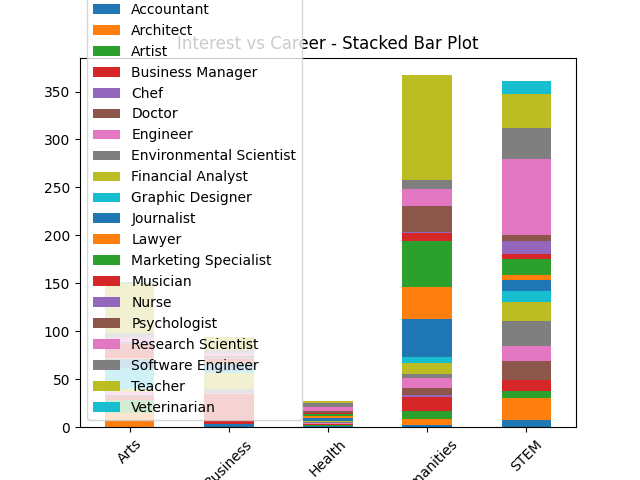
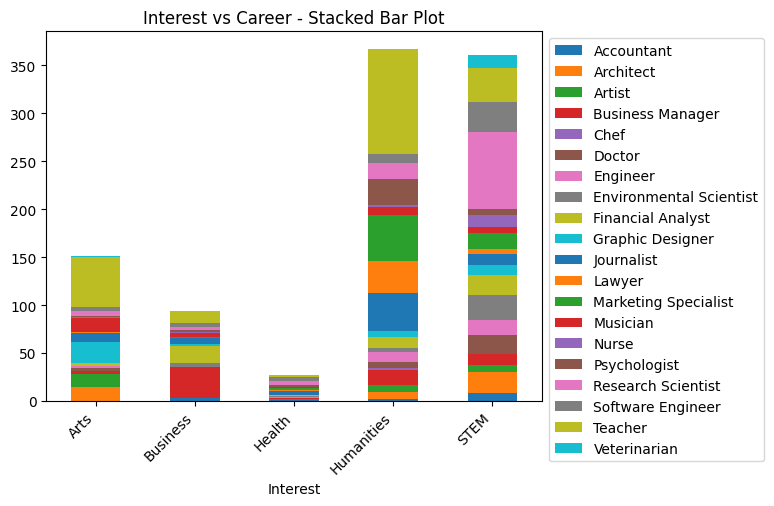
add swagger documentation

diff --git a/app.py b/app.py
@@ -21,7 +21,26 @@ from dotenv import load_dotenv
 from gridfs import GridFS
 from urllib.parse import quote_plus
 
-app = FastAPI()
+app = FastAPI(
+    title="Career Recommendation API",
+    description="API for predicting career recommendations based on student input.",
+    version="1.0.0",
+    docs_url="/",
+    openapi_tags=[
+       {
+            "name": "predictions",
+            "description": "Career prediction operations"
+        },
+        {
+            "name": "data",
+            "description": "Data upload and model operations"
+        },
+        {
+            "name": "visualizations",
+            "description": "Data visualization endpoints"
+        }
+    ]
+)
 
 app.mount('/static', StaticFiles(directory='./data/static'), name='static')
 
@@ -73,16 +92,44 @@ class PredictionInput(BaseModel):
     Age: Optional[int] = None
     CandidateID: Optional[str] = None
 
+    class Config:
+        schema_extra = {
+            "example": {
+                "Education": "O-Level",
+                "Interest": "Business",
+                "Favorite_Subject": "Mathematics",
+                "Extracurriculars": "Art Club",
+                "Personality_Trait": "Leader",
+            }
+        }
 
-@app.post("/predict")
+
+@app.post("/predict",
+          tags=["predictions"],
+          summary="Predict career recommendation",
+          description="Takes student profile information and returns recommended career using the trained ML model.")
 async def predict(data: PredictionInput):
+    """
+    Predict a career recommendation based on student profile data.
+    
+    This endpoint processes student information such as education, interests, and personality traits
+    to generate a suitable career recommendation using a machine learning model.
+    """
     df = pd.DataFrame([data.model_dump()])
     X_processed = preprocess_data(df, is_train=False)
     predictions = make_predictions(X_processed)
     return {'Recommended_Career': predictions[0]}
 
-@app.post("/upload")
+@app.post("/upload",
+          tags=["data"],
+          summary="Upload a dataset CSV file",
+          description="Upload CSV files to retrain the model.")
 async def upload_file(file: UploadFile = File(...)):
+    """
+    Upload a CSV file to the server for later model retraining.
+    
+    The file will be stored both on the server filesystem and in MongoDB GridFS.
+    """
     print(f"UPLOAD_FOLDER absolute path: {os.path.abspath(UPLOAD_FOLDER)}")
     file_path = os.path.join(UPLOAD_FOLDER, file.filename)
     with open(file_path, "wb") as buffer:
@@ -93,8 +140,14 @@ async def upload_file(file: UploadFile = File(...)):
     print(f"File {file.filename} uploaded to MongoDB with ID: {file_id}")
     return {"message": f"File {file.filename} uploaded successfully"}
 
-@app.post("/retrain")
+@app.post("/retrain",
+          tags=["data"],
+          summary="Retrain the model",
+          description="Retrain the model using the uploaded dataset.")
 async def retrain():
+    """
+    Retrain the career recommendation model using uploaded dataset.
+    """
     files = db.fs.files.find()
     dfs = []
     for file_doc in files:
@@ -122,18 +175,26 @@ async def retrain():
         "message": "Model retrained successfully",
     }
 
-@app.get("/visualizations/{plot_type}")
+@app.get("/visualizations/{plot_type}",
+         tags=["visualizations"],
+         summary="Generate data visualizations",
+         description="Generate and return visualizations based on the specified plot type.")
 async def get_visualizations(plot_type: str):
+    """
+    Generate data visualizations based on the specified plot type.
+
+    Available plot types: extracurriculars, interest, personality
+    """
     df = pd.read_csv('data/train/high_school_career_recommendation_dataset.csv')
 
     if not os.path.exists(STATIC_FOLDER):
         os.makedirs(STATIC_FOLDER, exist_ok=True)
     
-    plt.figure(figsize=(8, 6))
+    plt.figure(figsize=(12, 8))
     plots = []
     if plot_type == "extracurriculars":
         # First plot: Count plot
-        plt.figure(figsize=(8, 6))
+        plt.figure(figsize=(12, 8))
         sns.countplot(data=df, x='Extracurriculars', hue='Recommended_Career')
         plt.xticks(rotation=45)
         plt.title('Extracurriculars Distribution')
@@ -143,18 +204,19 @@ async def get_visualizations(plot_type: str):
         plots.append(plot_path1)
 
         # Second plot: Stacked bar plot with career correlation
-        plt.figure(figsize=(8, 6))
+        plt.figure(figsize=(12, 8))
         extracurriculars_career = df.groupby(['Extracurriculars', 'Recommended_Career']).size().unstack().fillna(0)
         extracurriculars_career.plot(kind='bar', stacked=True)
         plt.title('Extracurriculars vs Career - Stacked Bar Plot')
-        plt.xticks(rotation=45)
+        plt.xticks(rotation=45, ha="right")
+        plt.legend(loc='upper left', bbox_to_anchor=(1, 1))
         plot_path2 = f"{STATIC_FOLDER}/{plot_type}_bar.png"
-        plt.savefig(plot_path2)
+        plt.savefig(plot_path2, bbox_inches='tight')
         plt.close()
         plots.append(plot_path2)
 
     elif plot_type == "interest":
-        plt.figure(figsize=(8, 6))
+        plt.figure(figsize=(12, 8))
         sns.countplot(data=df, x='Interest', hue='Recommended_Career')
         plt.xticks(rotation=45)
         plt.title('Interest vs Career')
@@ -163,18 +225,19 @@ async def get_visualizations(plot_type: str):
         plt.close()
         plots.append(plot_path1)
 
-        plt.figure(figsize=(8, 6))
+        plt.figure(figsize=(12, 8))
         interest_career = df.groupby(['Interest', 'Recommended_Career']).size().unstack().fillna(0)
         interest_career.plot(kind='bar', stacked=True)
         plt.title('Interest vs Career - Stacked Bar Plot')
-        plt.xticks(rotation=45)
+        plt.xticks(rotation=45, ha="right")
+        plt.legend(loc='upper left', bbox_to_anchor=(1, 1))
         plot_path2 = f"{STATIC_FOLDER}/{plot_type}_bar.png"
-        plt.savefig(plot_path2)
+        plt.savefig(plot_path2, bbox_inches='tight')
         plt.close()
         plots.append(plot_path2)
 
     elif plot_type == "personality":
-        plt.figure(figsize=(8, 6))
+        plt.figure(figsize=(12, 8))
         sns.countplot(data=df, x='Personality_Trait')
         plt.xticks(rotation=45)
         plt.title('Personality Distribution')
@@ -183,13 +246,14 @@ async def get_visualizations(plot_type: str):
         plt.close()
         plots.append(plot_path1)
 
-        plt.figure(figsize=(8, 6))
+        plt.figure(figsize=(12, 8))
         personality_career = df.groupby(['Personality_Trait', 'Recommended_Career']).size().unstack().fillna(0)
         personality_career.plot(kind='bar', stacked=True)
         plt.title('Personality vs Career - Stacked Bar Plot')
         plt.xticks(rotation=45)
+        plt.legend(loc='upper left', bbox_to_anchor=(1, 1))
         plot_path2 = f"{STATIC_FOLDER}/{plot_type}_bar.png"
-        plt.savefig(plot_path2)
+        plt.savefig(plot_path2, bbox_inches='tight')
         plt.close()
         plots.append(plot_path2)
 
